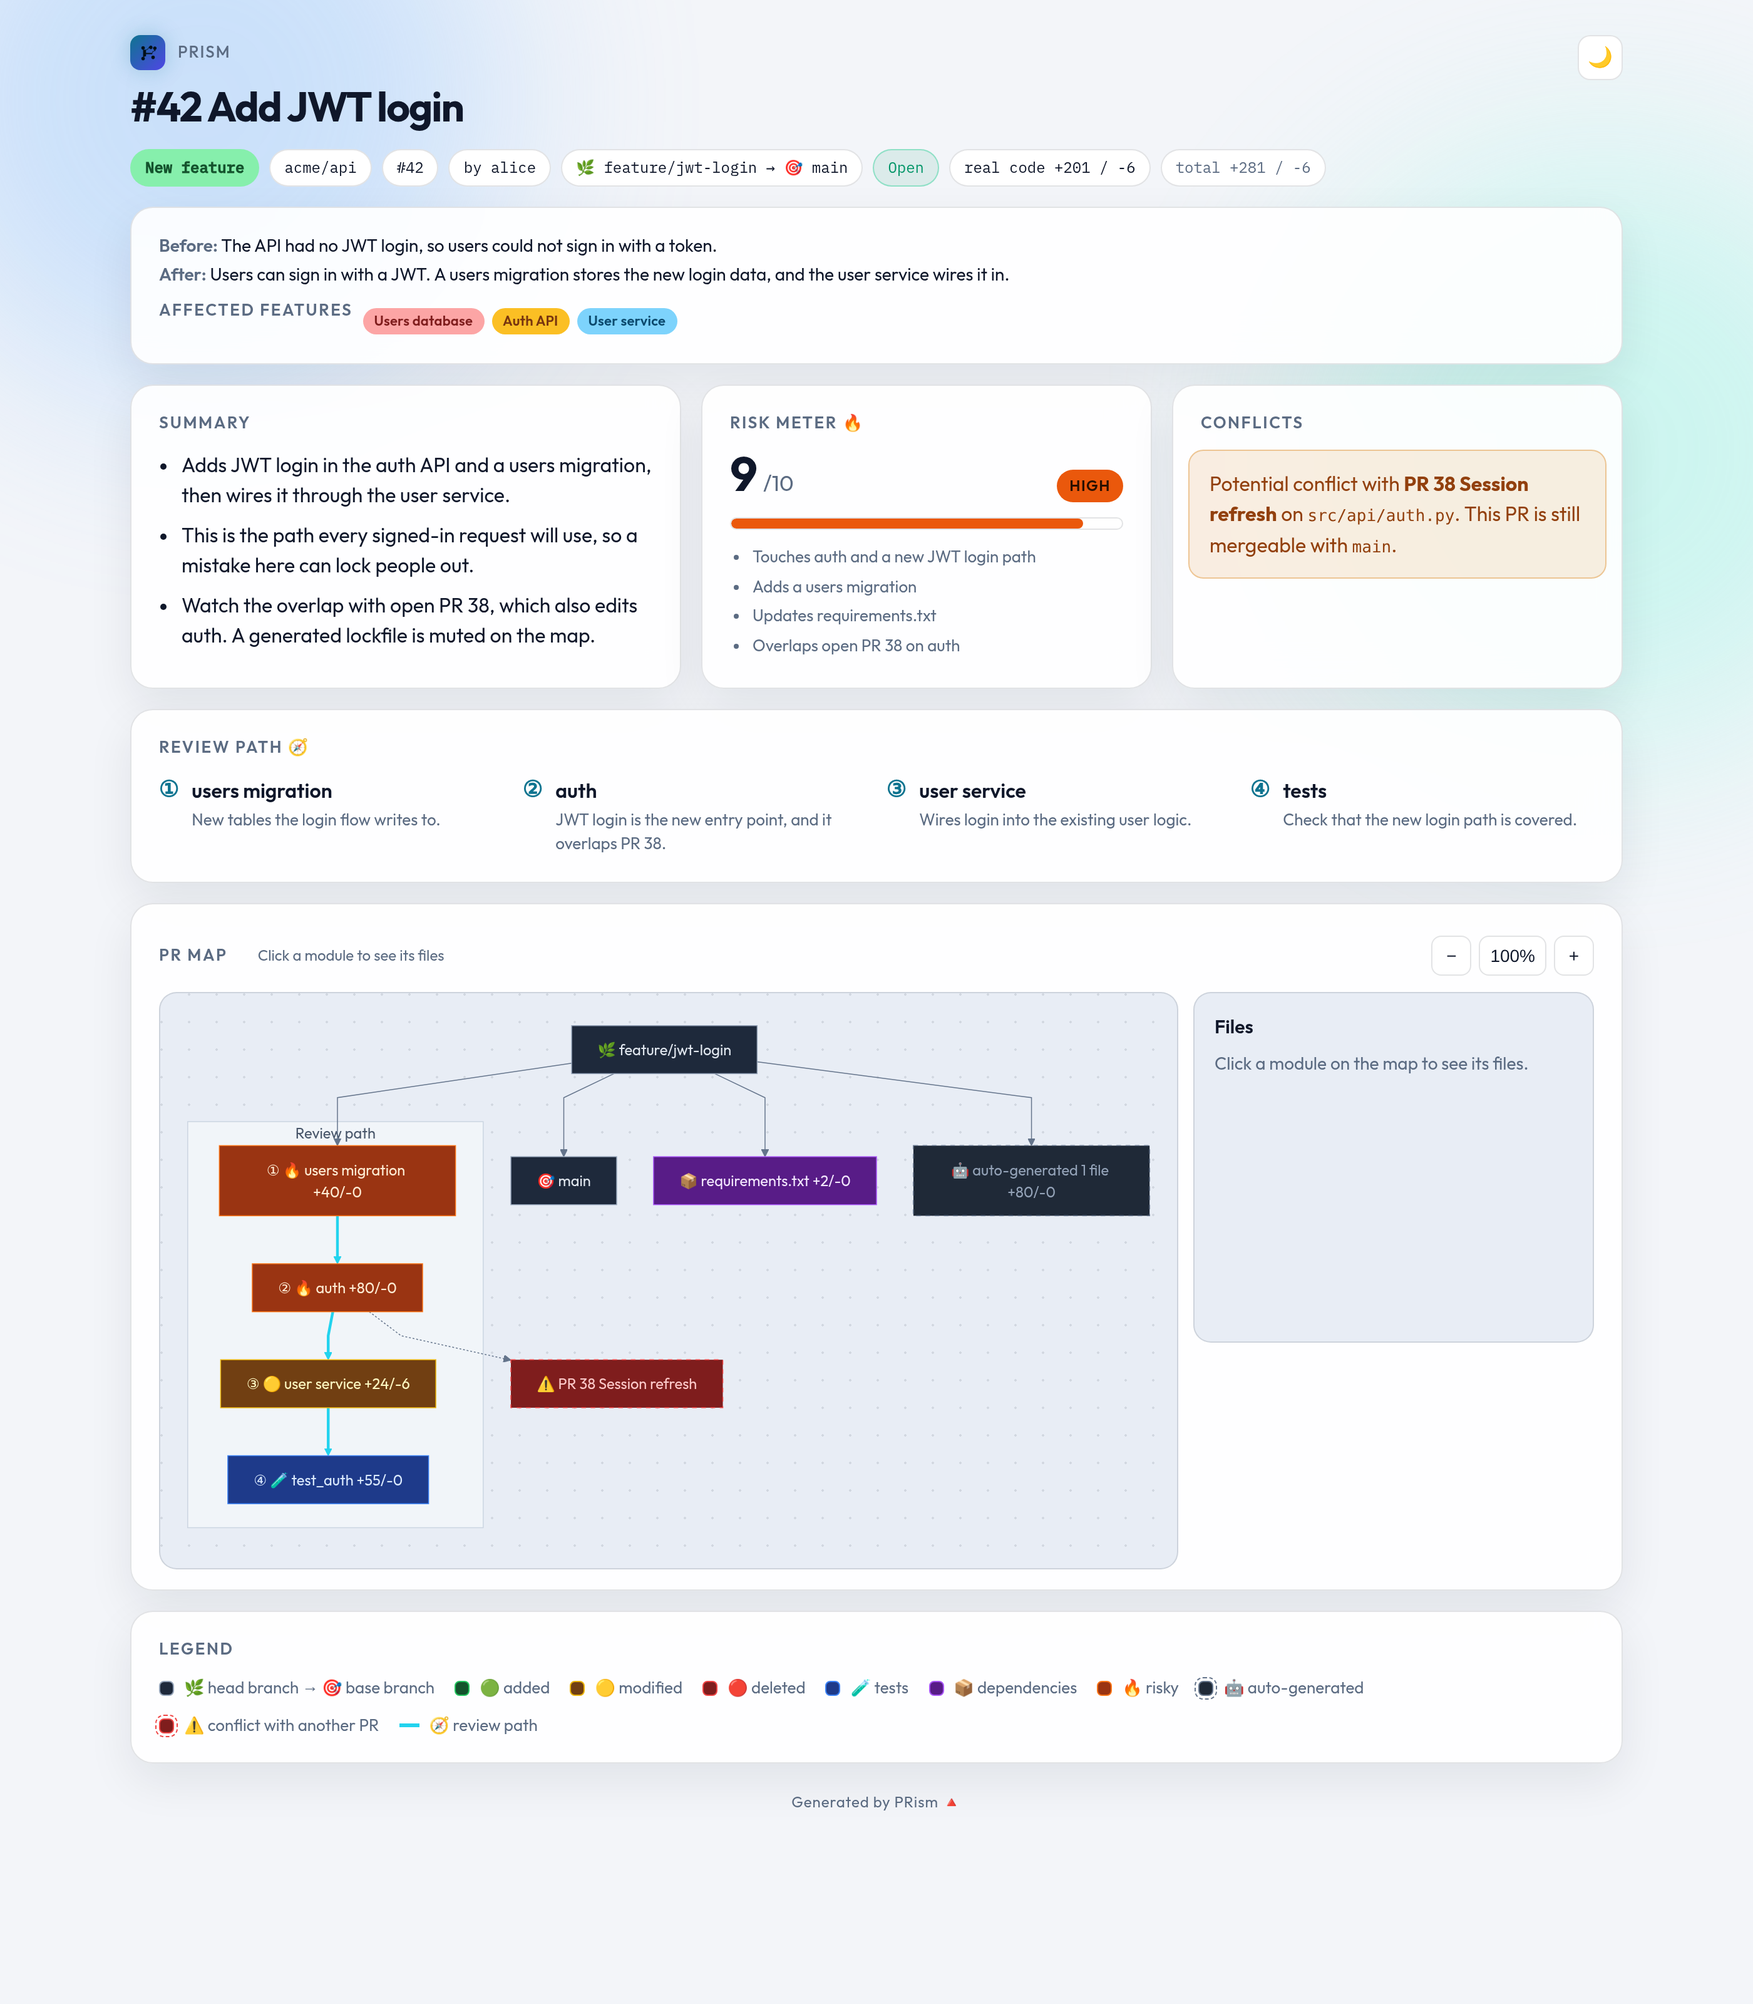
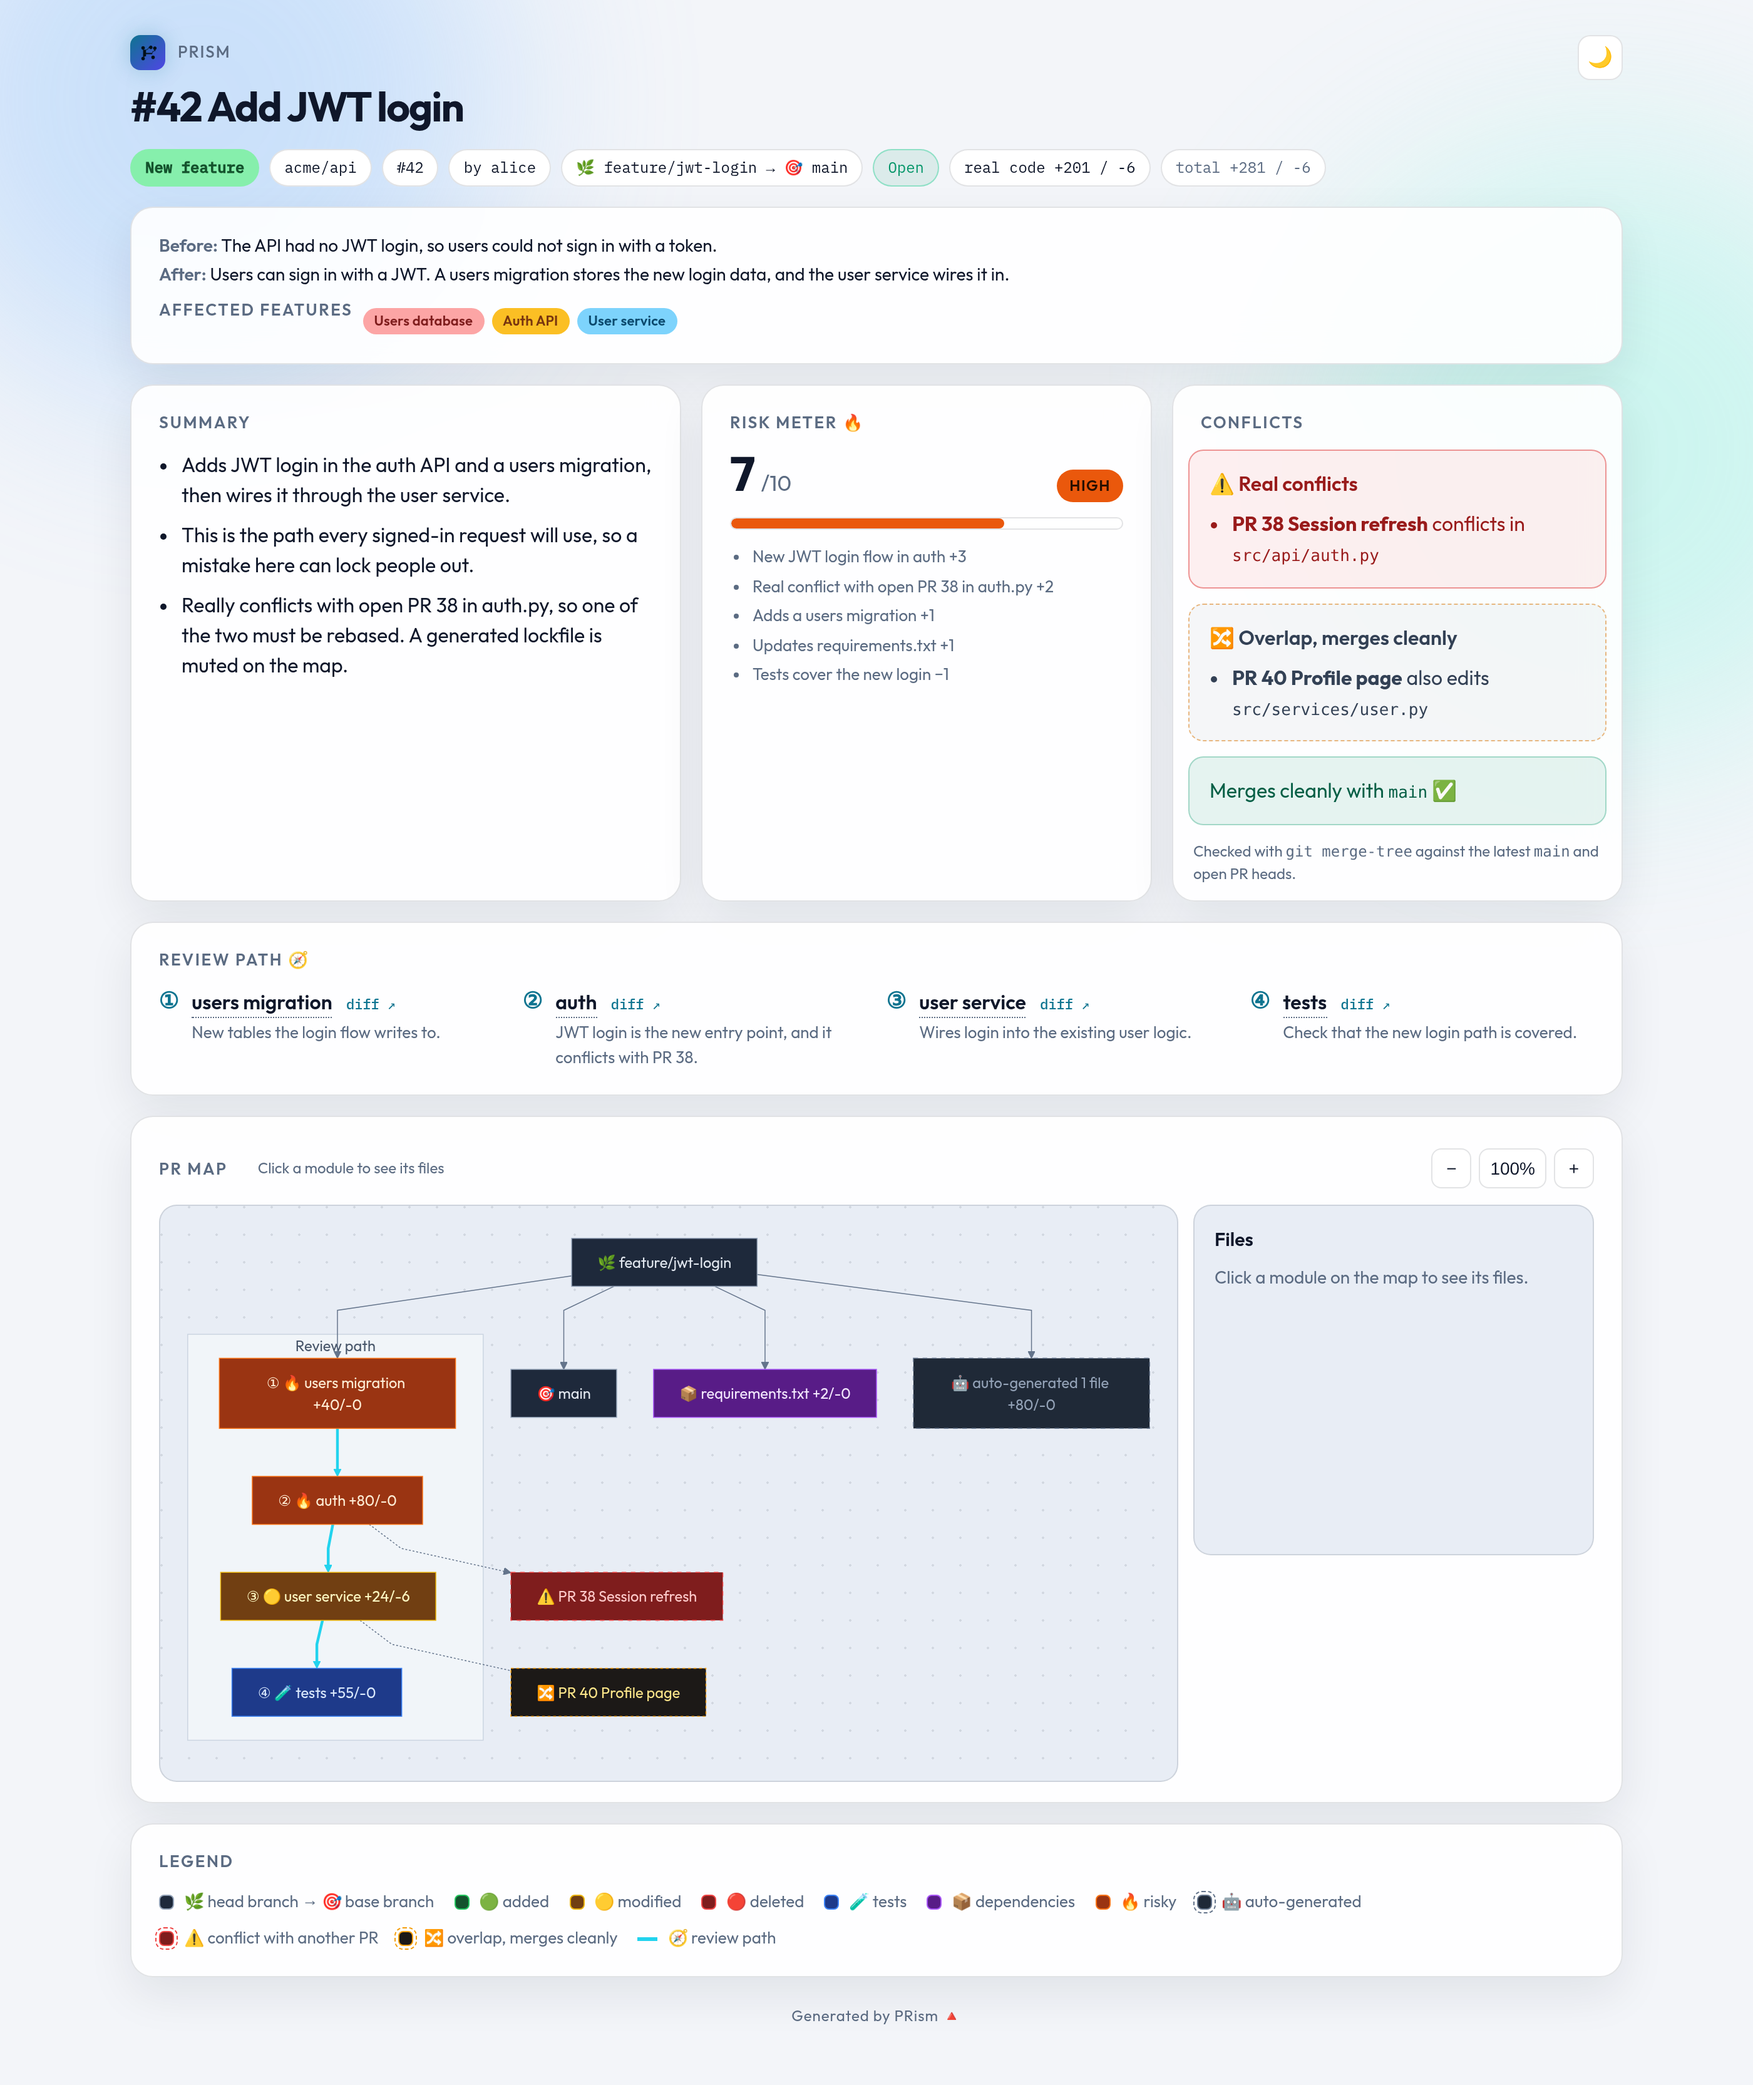
Update README screenshot and title

diff --git a/README.md b/README.md
@@ -1,4 +1,4 @@
-# PRism 🔺
+# PRism
 
 See what a pull request does at a glance. PRism turns a GitHub PR, or your own branch before you open one, into a visual page: a summary, a risk score, the order to review in, real conflicts with other PRs, and a clickable map of the changed modules.
 
